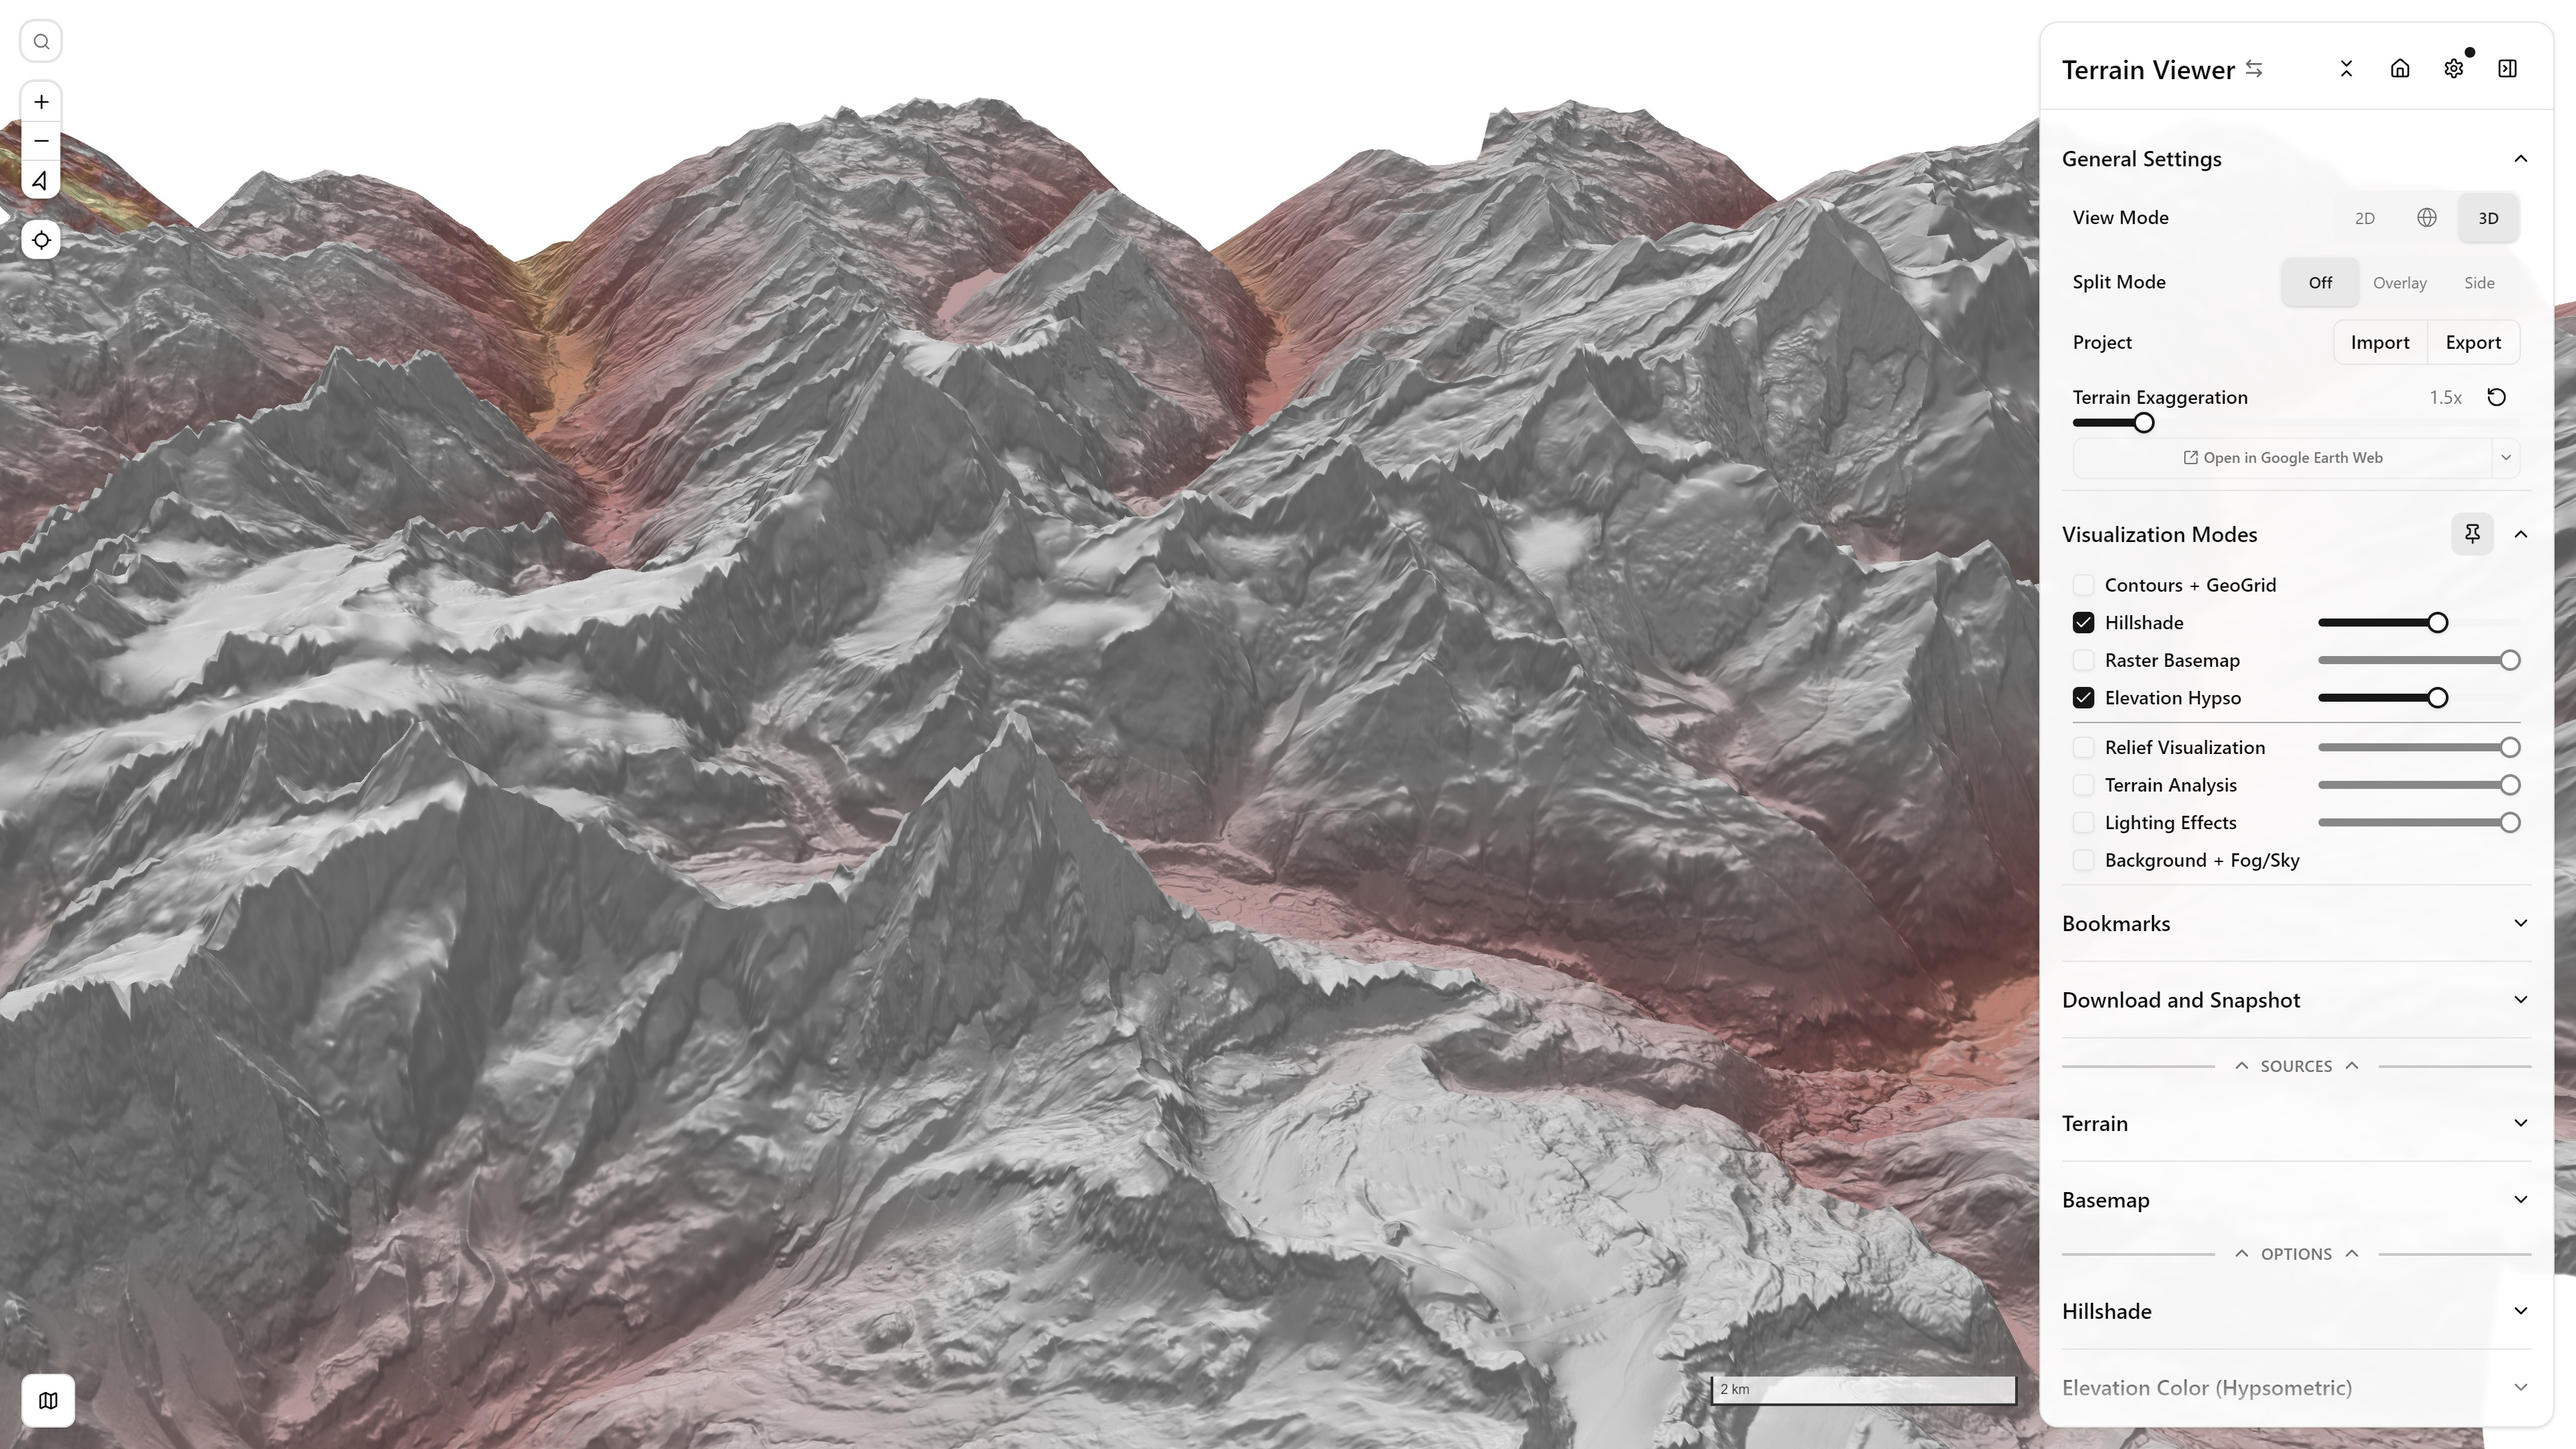
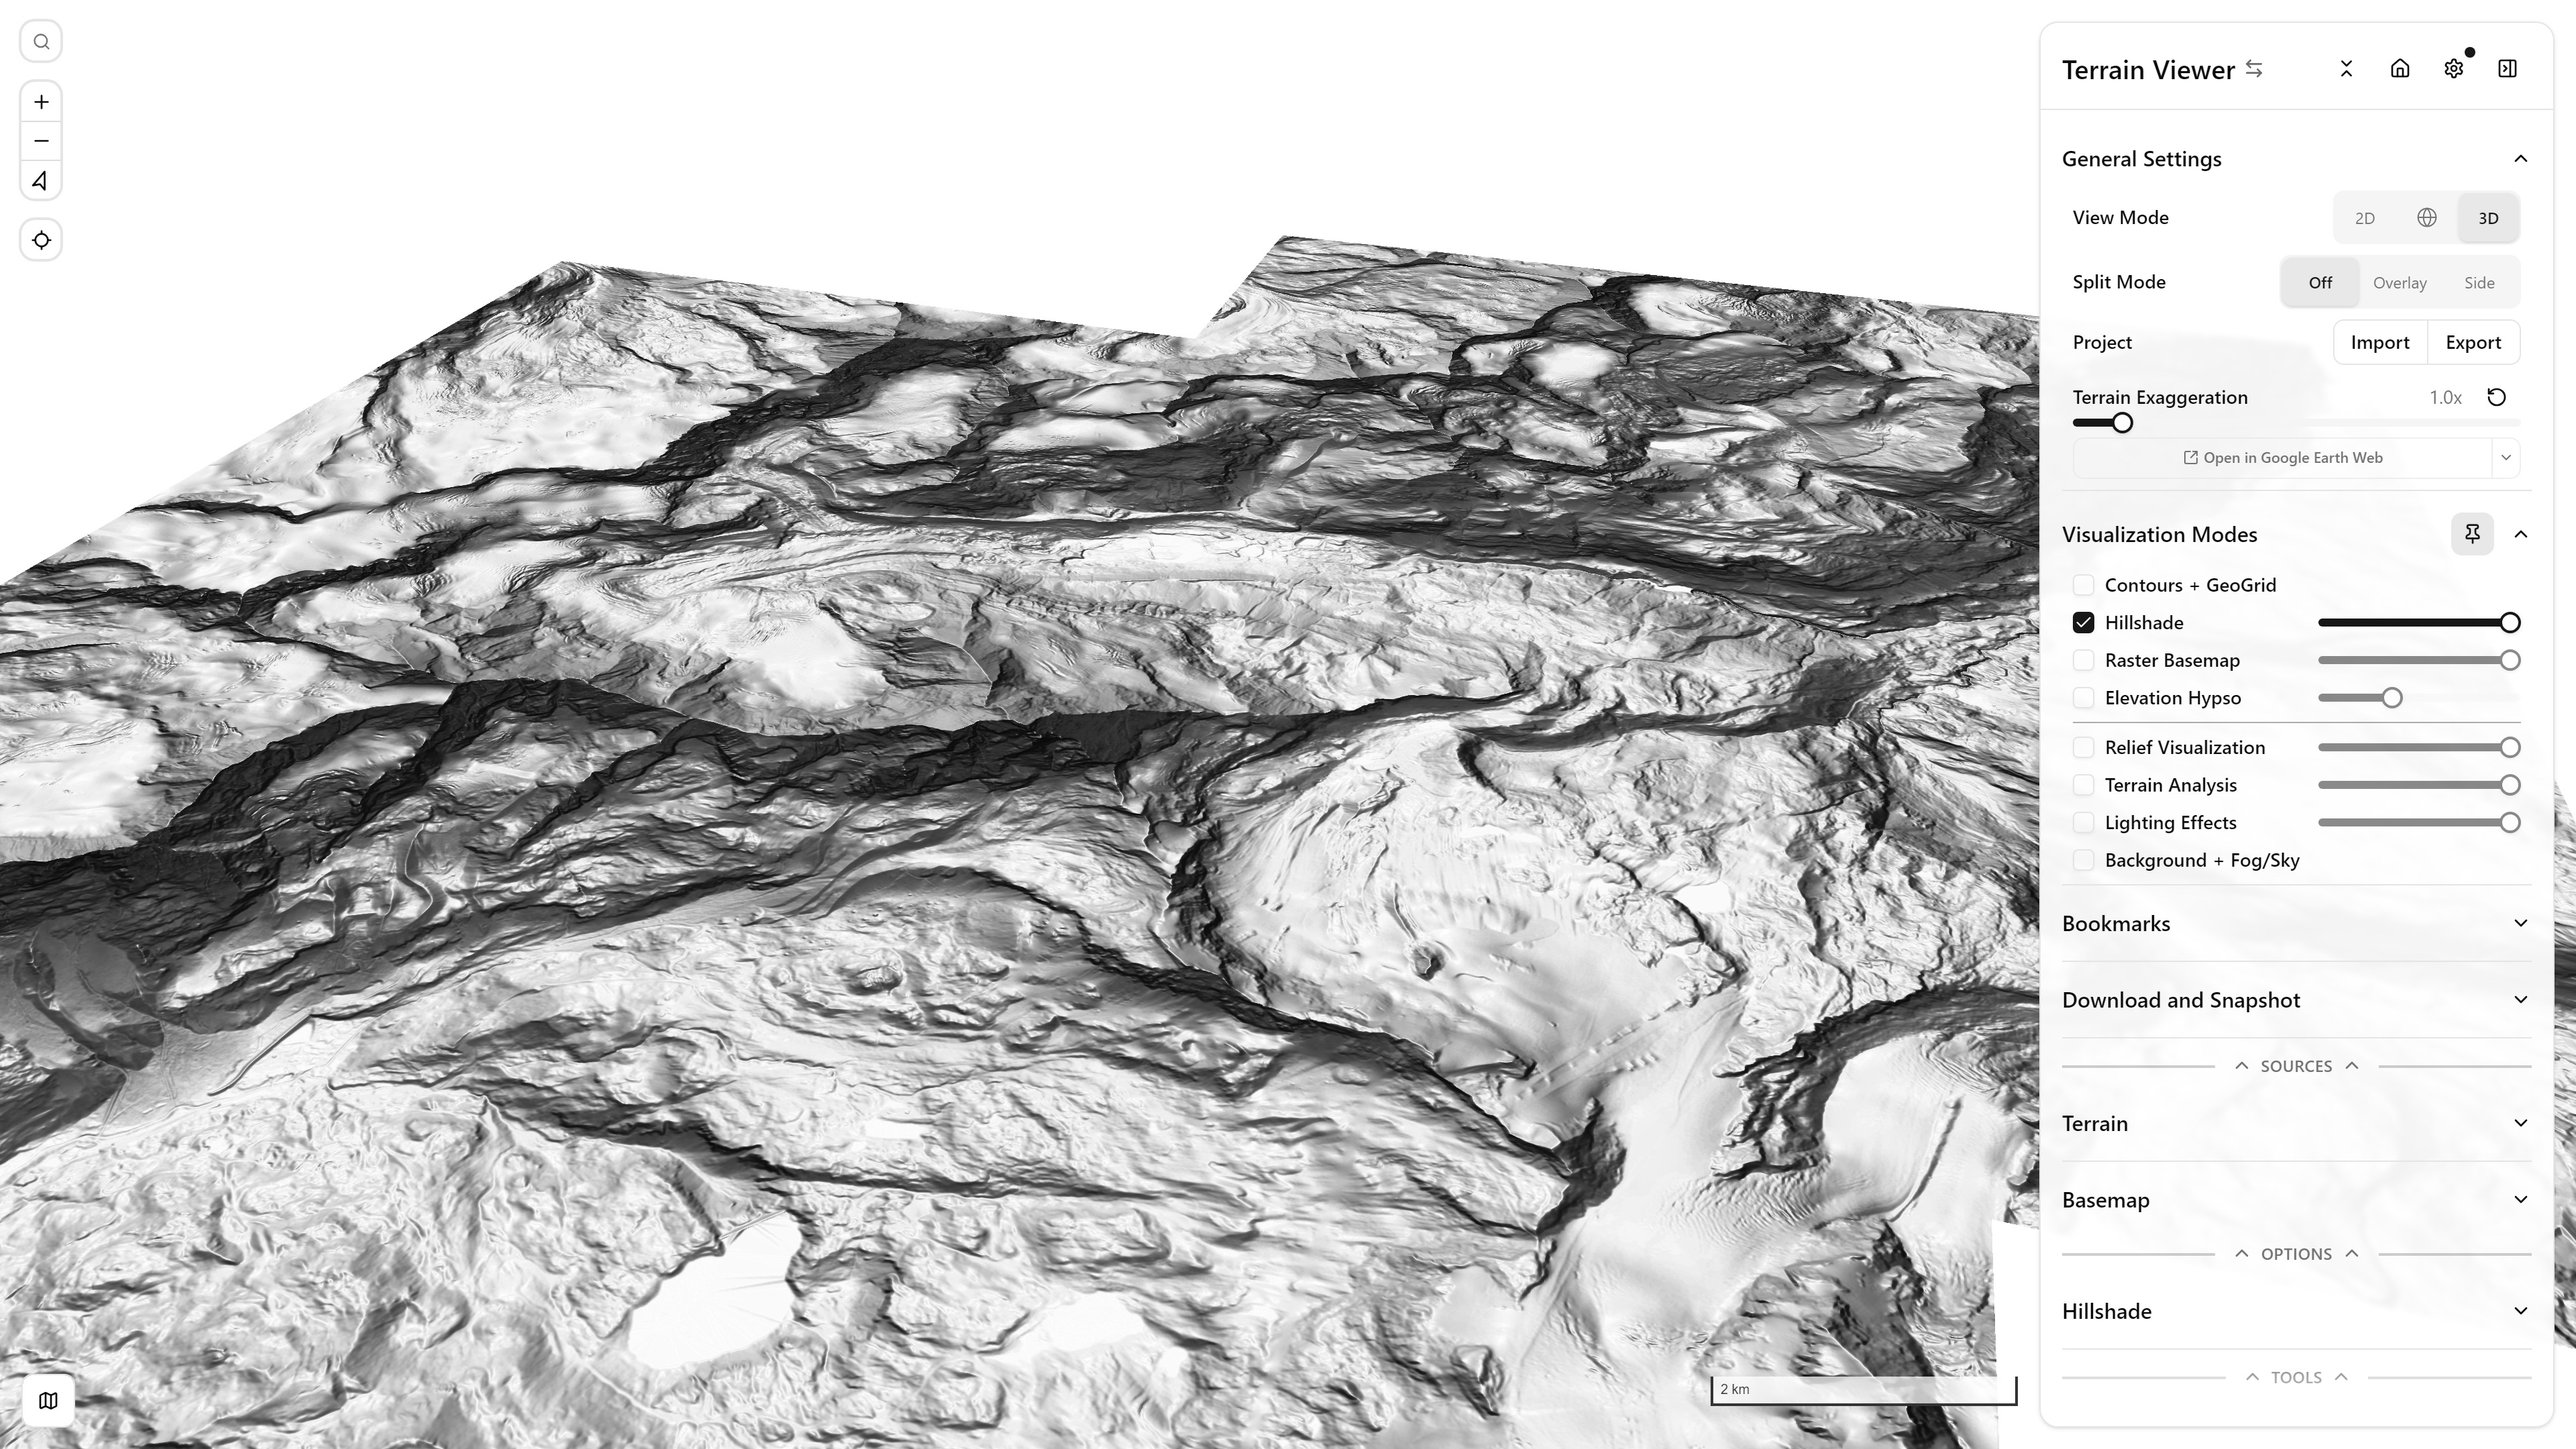
Docs: exaggeration=1 screenshot re-pass, prod-URL links, blend-mode section
Re-captured every self-produced viz-mode/split-mode screenshot with
terrain exaggeration locked to 1.0x (never exaggerate terrain), top-down
contours, auto min/max hypso, tilted pure-hillshade Split Off, recentered
Overlay gutter, reddish matcap material, and per-mode scroll framing.

- New "Historical Split & Compare Blend Modes" section (Normal 100/50%,
  Multiply, Difference) on the Paris/Île de la Cité historical grid, which
  also now demonstrates Google Earth Historical's coarser/irregular tiling
  next to crisp Wayback/HLS panes.
- VizModeGrid cards and every self-produced screenshot caption now link
  to the exact prod URL (nuqs state) reproducing that view.
- New bookmark set (Matterhorn/Patagonia/Grand Canyon) replacing the
  duller original captures.
- Resources & Inspiration moved below Dev, default-expanded.
- SVF/Openness left at their pre-existing screenshots — the ray-marched
  computation never completes in headless Chromium after repeated
  attempts (likely a worker/GPU-readback path absent under software
  rendering), a capture-environment limitation rather than an app bug.

diff --git a/docs/src/components/viz-mode-grid.tsx b/docs/src/components/viz-mode-grid.tsx
@@ -10,6 +10,9 @@ export interface VizModeExample {
    *  see docs task "Visualization Modes docs page: add 3x3 screenshot table". */
   image: string;
   alt: string;
+  /** Live app URL reproducing this exact screenshot's view/mode state
+   *  (nuqs query string) — when present, the label links out to it. */
+  href?: string;
 }
 
 export interface VizModeGroup {
@@ -45,7 +48,18 @@ export function VizModeGrid({ groups }: { groups: VizModeGroup[] }) {
             <div className="grid grid-cols-1 gap-4 sm:grid-cols-3">
               {group.modes.map((mode) => (
                 <div key={mode.label} className="flex flex-col gap-2">
-                  <div className="text-sm font-medium">{mode.label}</div>
+                  {mode.href ? (
+                    <a
+                      href={mode.href}
+                      target="_blank"
+                      rel="noopener noreferrer"
+                      className="text-sm font-medium text-fd-primary hover:underline"
+                    >
+                      {mode.label} ↗
+                    </a>
+                  ) : (
+                    <div className="text-sm font-medium">{mode.label}</div>
+                  )}
                   {/* eslint-disable-next-line @next/next/no-img-element */}
                   <img
                     src={mode.image}
